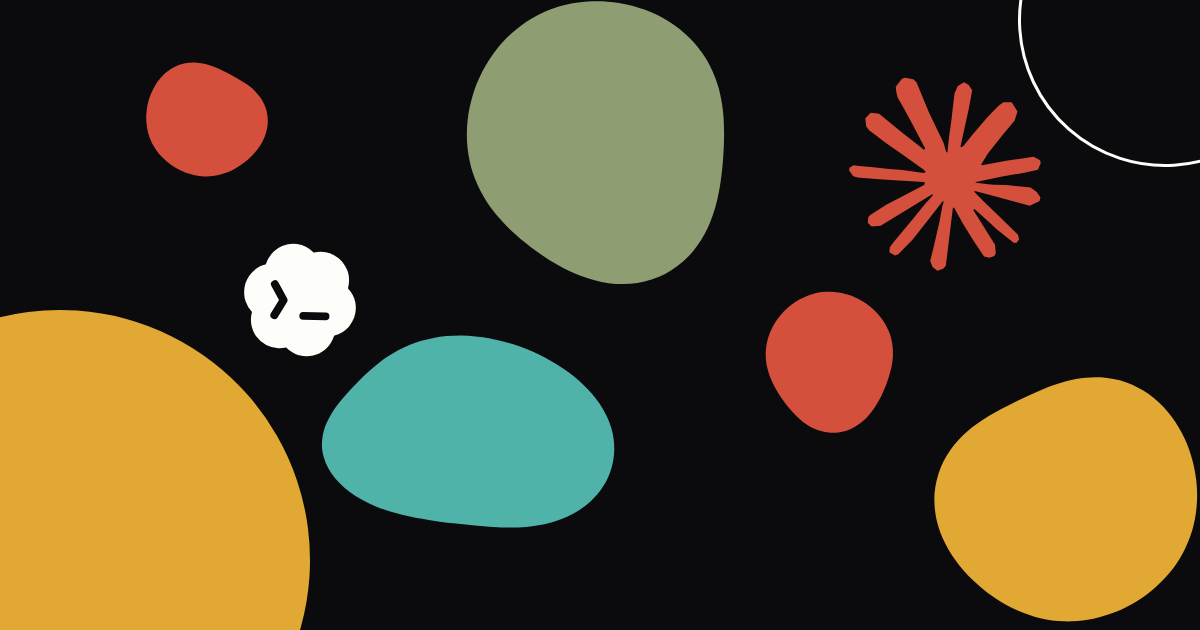
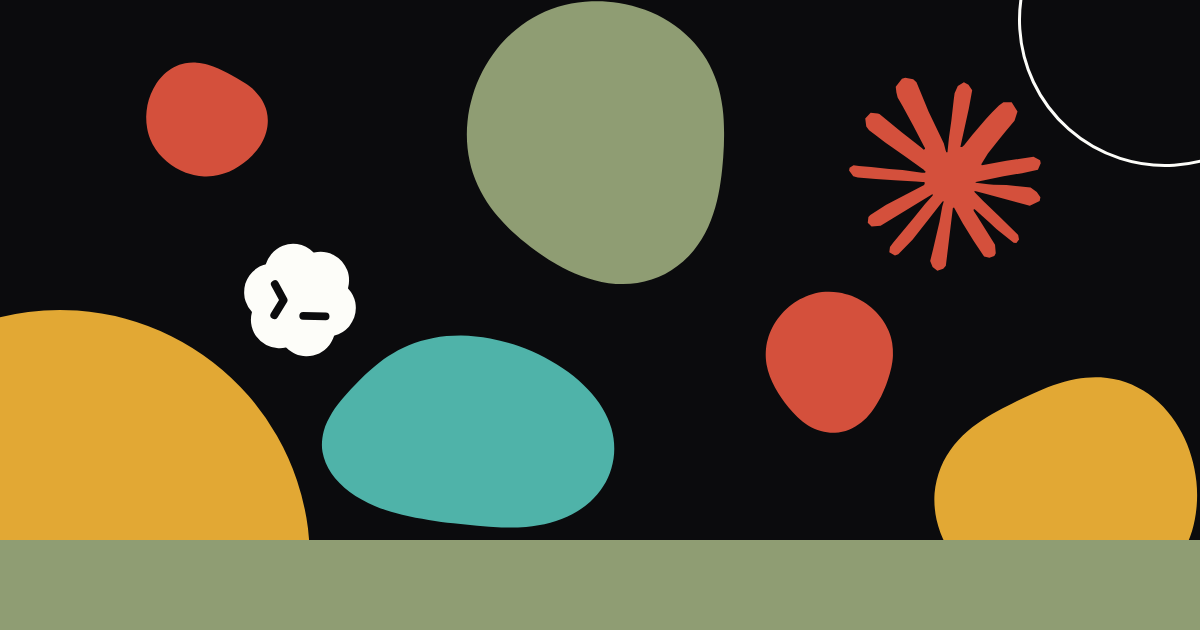
og: add a bright ground along the bottom of the cards
iMessage tints the caption bar under a link preview from the image, and
the near-black cards gave it a dull bar. A palette-coloured ground for the
shapes to set behind gives it a colour to pick up.

Changed region(s): [[0.0, 0.8444, 1.0, 1.0]]

diff --git a/tools/og/card.html b/tools/og/card.html
@@ -60,6 +60,7 @@
       { kind: 'pebble', x: 1070, y: 500, r: 125, c: 0 },
       { kind: 'ring', x: 1165, y: 20, r: 150 },
     ];
+    const GROUND = 90;
     const WAVES = [[2, 0.055], [3, 0.035], [4, 0.015]];
 
     function shapeSVG(spec, color, seed) {
@@ -93,7 +94,12 @@
       const flip = mirror && (spec.kind === 'claude' || spec.kind === 'codex') ? ' scale(-1 1)' : '';
       return `<g transform="translate(${spec.x} ${spec.y}) rotate(${angle.toFixed(2)})${flip}">${shapeSVG(spec, fill(spec.c ?? 0), seed)}</g>`;
     }).join('');
-    document.getElementById('shapes').innerHTML = mirror ? `<g transform="translate(1200 0) scale(-1 1)">${shapes}</g>` : shapes;
+    // A bright ground along the bottom, which the sun and the big pebble set
+    // behind. iMessage tints its caption bar from the image, so this is what
+    // makes the bar under the preview pop rather than come out near-black.
+    const ground = `<rect y="${630 - GROUND}" width="1200" height="${GROUND}" fill="${fill(1)}"/>`;
+    const art = (mirror ? `<g transform="translate(1200 0) scale(-1 1)">${shapes}</g>` : shapes) + ground;
+    document.getElementById('shapes').innerHTML = art;
     document.title = 'ready';
   </script>
 </body>
